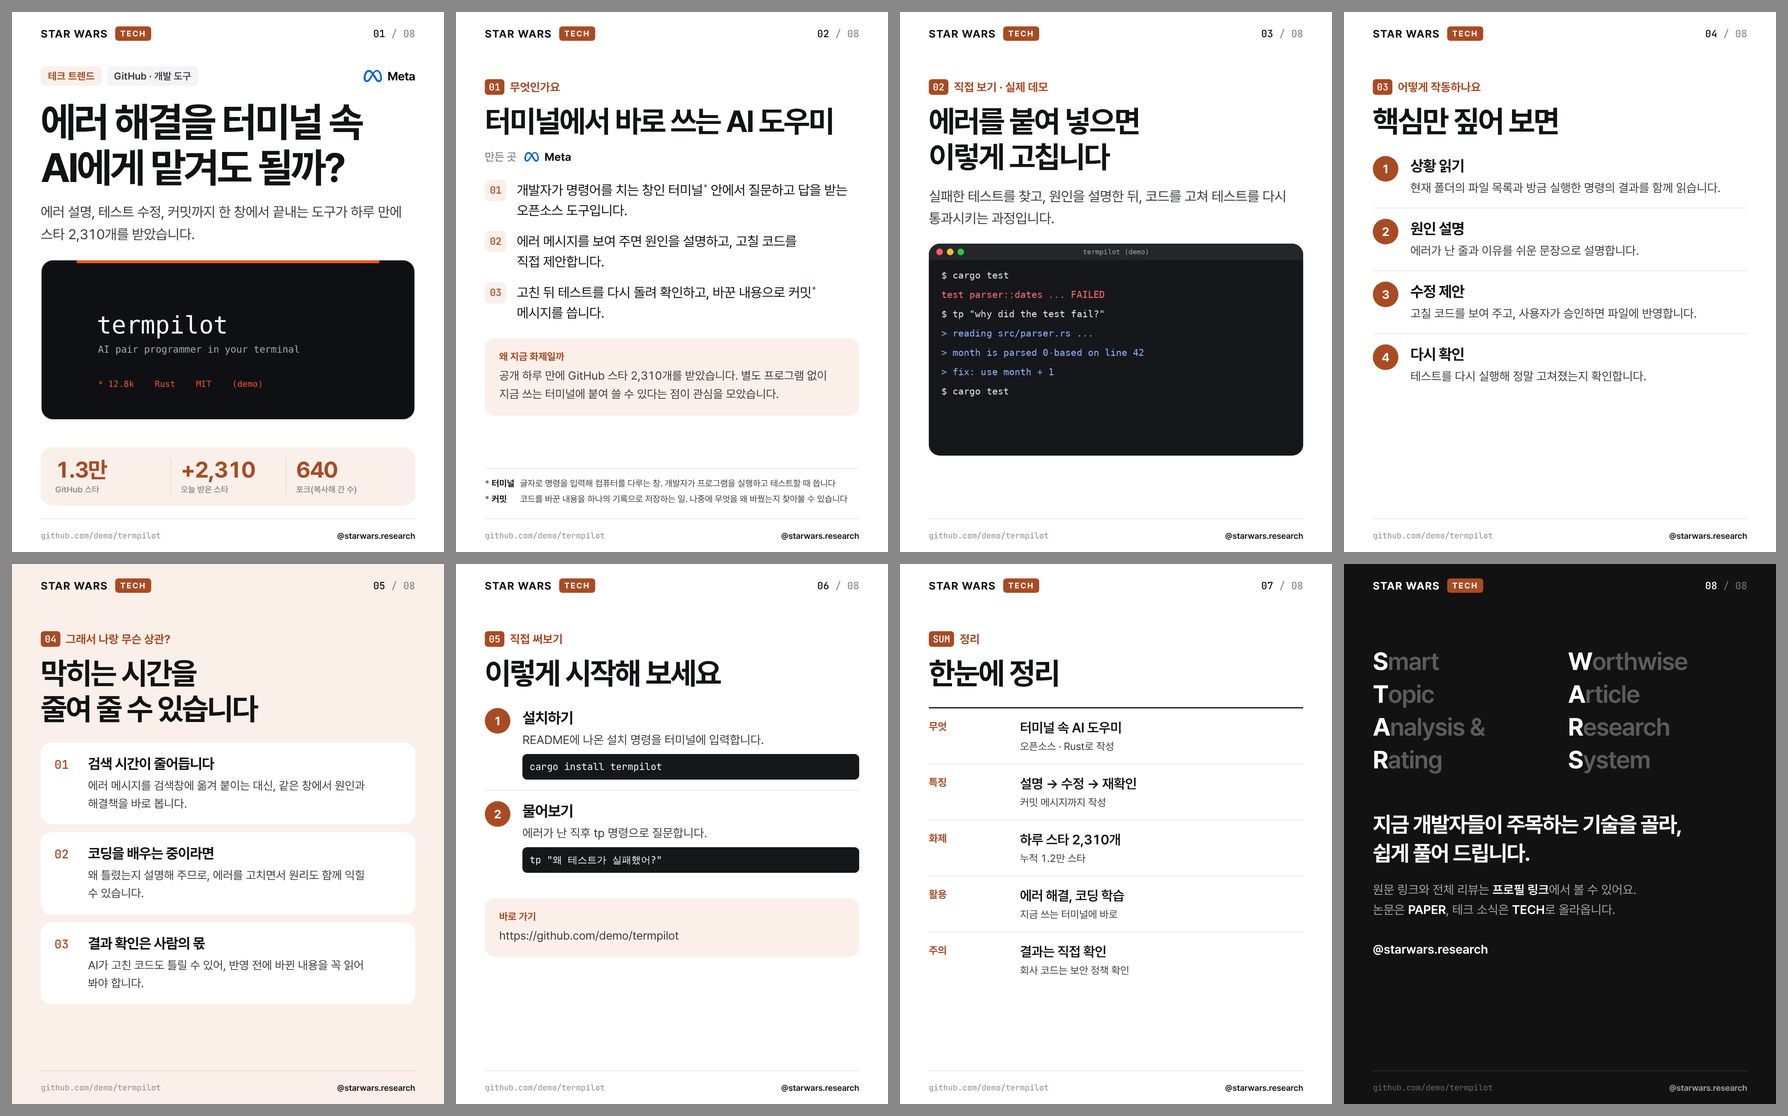
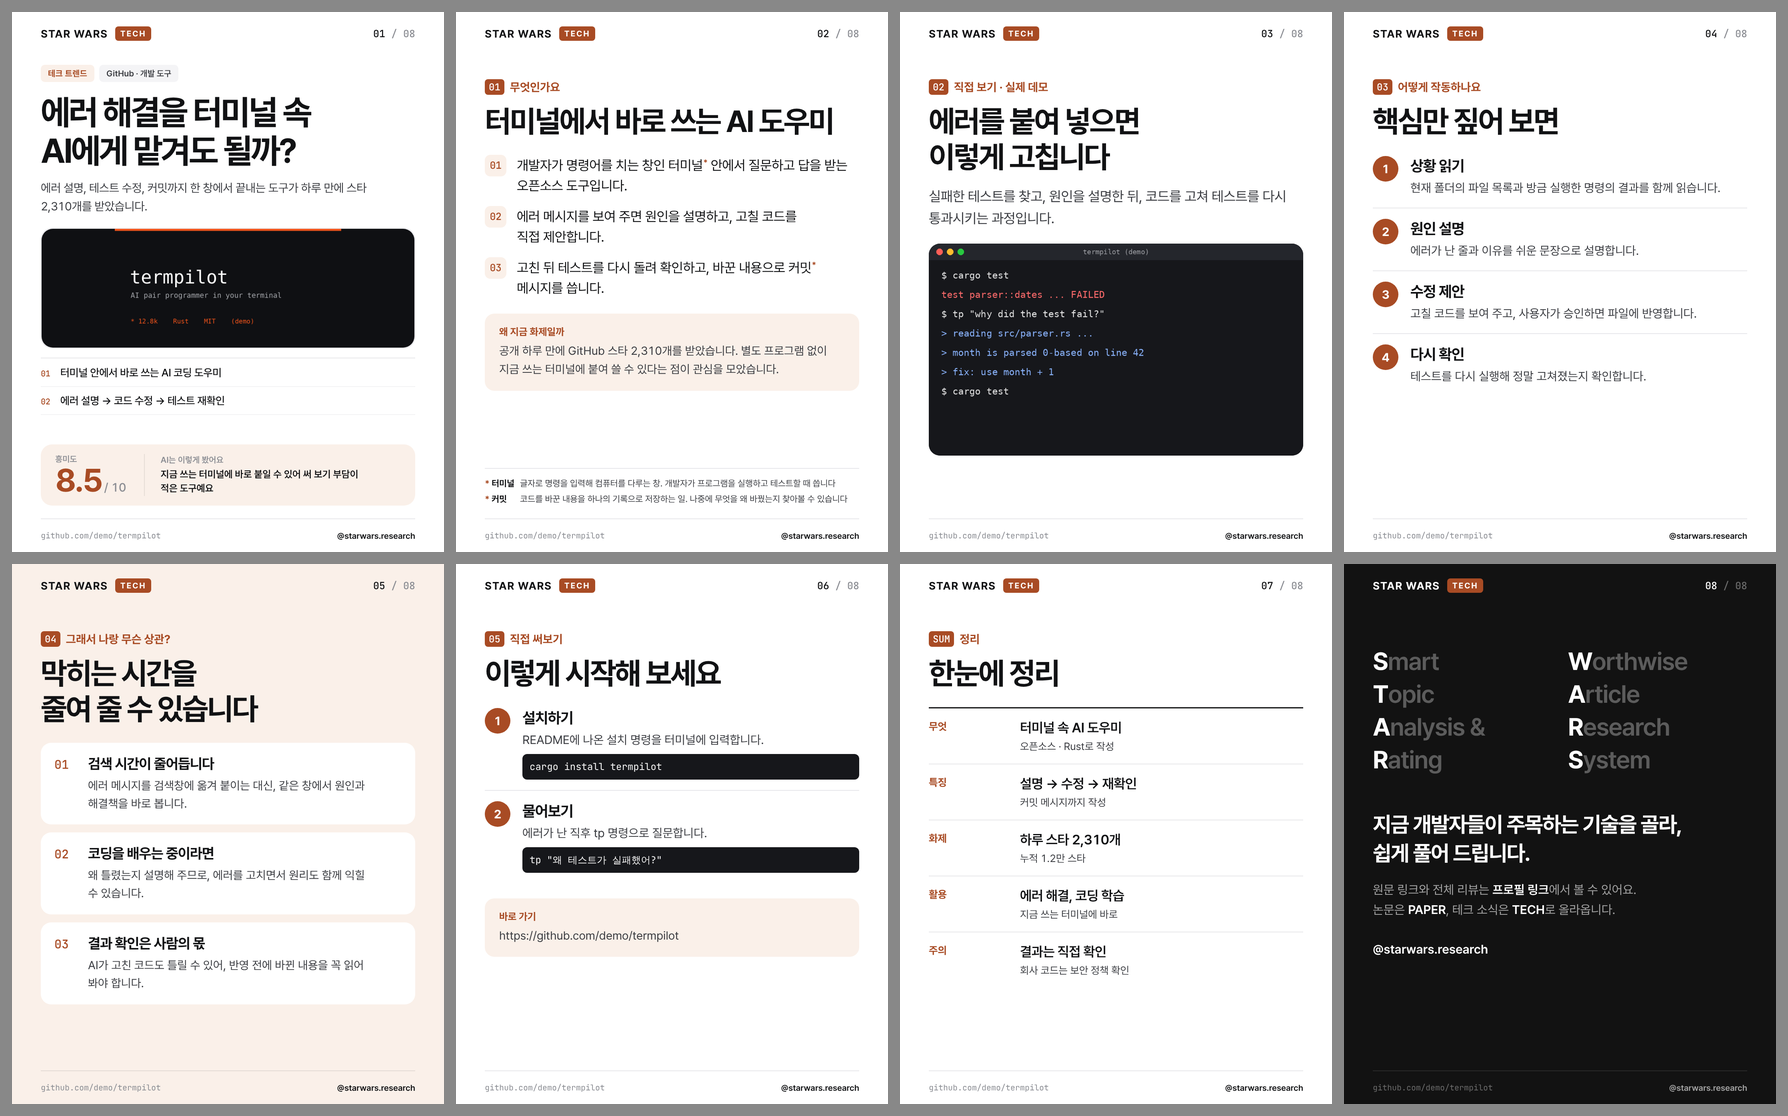
Covers are never empty: picture with key points, or the key number and points; TECH cover shows interest and the AI's take
Claude-Session: https://claude.ai/code/session_012bj7GXVabYbePdzsSxXok8

Changed region(s): [[0.0, 0.0609, 0.2461, 0.457], [0.2768, 0.1219, 0.4614, 0.3656]]

diff --git a/paperagent/templates/cards/cards.html b/paperagent/templates/cards/cards.html
@@ -109,6 +109,22 @@ h2 { flex: none; margin-top: calc(22px * var(--k)); font-size: calc(76px * var(-
 .stat-card .big b span { font-size: 30px; color: var(--mute); letter-spacing: 0; font-weight: 500; margin-left: 6px; }
 .stat-card .parts { flex: 1; display: flex; flex-direction: column; gap: 18px; }
 .stat-card .track { background: #fff; }
+/* the cover's key number (when there is no picture) and its three takeaways */
+.cover-num { flex: none; margin-top: calc(40px * var(--k)); display: flex; align-items: baseline; flex-wrap: wrap; gap: 8px 24px; }
+.cover-num[hidden], .cover-points[hidden], .cover-points li[hidden] { display: none; }
+.cover-num b { font-size: calc(124px * var(--k)); font-weight: 700; line-height: 1; letter-spacing: -0.05em; color: var(--c); }
+.cover-num span { font-size: calc(32px * var(--k)); font-weight: 600; color: var(--body); }
+.cover-points { flex: none; list-style: none; margin-top: calc(34px * var(--k)); border-top: 2px solid var(--line); }
+.cover-points li { display: grid; grid-template-columns: calc(58px * var(--k)) minmax(0, 1fr); align-items: baseline; padding: calc(18px * var(--k)) 0;
+                   border-bottom: 1px solid var(--line); font-size: calc(32px * var(--k)); line-height: 1.45; font-weight: 500; letter-spacing: -0.015em; }
+.cover-points li b { font-family: "Mono", monospace; font-size: calc(24px * var(--k)); font-weight: 500; color: var(--c); }
+.figure + .cover-points { margin-top: calc(28px * var(--k)); }
+/* TECH cover: how interesting it is, and the AI's one-line take */
+.stat-card.take { align-items: stretch; }
+.ai-take { flex: 1; display: flex; flex-direction: column; justify-content: center; }
+.take .big + .ai-take { border-left: 2px solid rgba(0,0,0,.08); padding-left: 40px; }
+.ai-take small { font-size: 21px; color: var(--mute); font-weight: 600; }
+.ai-take p { margin-top: 6px; font-size: calc(29px * var(--k)); line-height: 1.45; font-weight: 600; color: var(--ink); text-wrap: pretty; }
 .tiles-row { flex: 1; display: grid; grid-auto-flow: column; grid-auto-columns: minmax(0, 1fr); }
 .tiles-row > div { padding: 0 24px; border-left: 2px solid rgba(0,0,0,.08); }
 .tiles-row > div:first-child { padding-left: 0; border-left: 0; }
@@ -266,15 +282,21 @@ h2 { flex: none; margin-top: calc(22px * var(--k)); font-size: calc(76px * var(-
       {% if cover.maker %}<span class="maker">{{ cover.maker.mark or '' }}<b>{{ cover.maker.name }}</b></span>{% endif %}</div>
     <h1>{{ cover.headline | t }}</h1>
     {% if cover.sub %}<p class="lead">{{ cover.sub | t }}</p>{% endif %}
+    {# with a picture the picture leads; without one, the key number does (the script shows one or the other) #}
+    {% if cover.number %}<div class="cover-num"><b>{{ cover.number.value }}</b>{% if cover.number.label %}<span>{{ cover.number.label | t }}</span>{% endif %}</div>{% endif %}
     {{ figure(cover.image) }}
+    {% if cover.points %}<ol class="cover-points">{% for x in cover.points[:3] %}<li><b>{{ '%02d' % loop.index }}</b><span>{{ x | t }}</span></li>{% endfor %}</ol>{% endif %}
     <div class="stat">
       {% if cover.stat.type == 'score' %}
       <div class="stat-card">
         <div class="big"><small>종합 평점</small><b>{{ cover.stat.overall }}<span>/ 10</span></b></div>
         <div class="parts">{{ bar('방법론', cover.stat.method) }}{{ bar('참신성', cover.stat.novelty, 'alt') }}</div>
       </div>
-      {% elif cover.stat.tiles %}
-      <div class="stat-card"><div class="tiles-row">{% for t in cover.stat.tiles[:3] %}<div><b>{{ t.value }}</b><span>{{ t.label }}</span></div>{% endfor %}</div></div>
+      {% elif cover.stat.type == 'take' %}
+      <div class="stat-card take">
+        {% if cover.stat.interest is not none %}<div class="big"><small>흥미도</small><b>{{ '%.1f' % cover.stat.interest }}<span>/ 10</span></b></div>{% endif %}
+        {% if cover.stat.take %}<div class="ai-take"><small>AI는 이렇게 봤어요</small><p>{{ cover.stat.take | t }}</p></div>{% endif %}
+      </div>
       {% endif %}
     </div>
     {{ foot(s.notes) }}
@@ -431,21 +453,35 @@ function fit(slide) {
   const bottom = () => Math.max(0, ...[...main.children].map((c) => c.offsetTop + c.offsetHeight));
   const pad = parseFloat(getComputedStyle(main).paddingBottom) || 0;
   const room = () => main.clientHeight - pad - bottom();
-  slide.classList.add("measuring");
-  let k = 1;
-  setK(k);
-  while (room() < -1 && k > 0.62) { k = +(k - 0.02).toFixed(2); setK(k); }
+  const shrink = (k, floor = 0.62) => { while (room() < -1 && k > floor) { k = +(k - 0.02).toFixed(2); setK(k); } return k; };
+  const cover = slide.classList.contains("cover");
   const f = slide.querySelector(".figure");
+  const num = slide.querySelector(".cover-num");
+  const points = [...slide.querySelectorAll(".cover-points li")];
+  slide.classList.add("measuring");
+  if (f && num) num.hidden = true;  // with a picture, the picture leads
+  let k = shrink(1);
+  setK(k);
   if (f) {
-    const kind = slide.classList.contains("media") ? "media" : slide.classList.contains("cover") ? "cover" : "other";
+    const kind = slide.classList.contains("media") ? "media" : cover ? "cover" : "other";
     const need = MIN_FIGURE[kind] || 280;
-    let kk = k;
-    const gap = () => 36 * kk;
-    while (room() - gap() < need && kk > Math.max(0.74, k - 0.16)) { kk = +(kk - 0.02).toFixed(2); setK(kk); }
-    // keep clear space between the figure and what follows it (the score
-    // box or the footnotes), so the two never touch or overlap
-    const avail = room() - gap();
-    if (avail >= need) {
+    const floor = cover ? 0.84 : 0.74;  // the cover's headline stays big
+    // room for the picture at a type scale no smaller than the floor? (gives up cover points from the bottom first)
+    const fits = () => {
+      let kk = k;
+      setK(kk);
+      while (room() - 36 * kk < need && kk > Math.max(floor, k - 0.16)) { kk = +(kk - 0.02).toFixed(2); setK(kk); }
+      return room() - 36 * kk >= need ? kk : null;
+    };
+    let kk = fits();
+    while (kk === null && points.some((li) => !li.hidden)) {
+      [...points].reverse().find((li) => !li.hidden).hidden = true;
+      if (!points.some((li) => !li.hidden)) slide.querySelector(".cover-points").hidden = true;
+      k = shrink(1);
+      kk = fits();
+    }
+    if (kk !== null) {
+      const avail = room() - 36 * kk;
       slide.classList.remove("measuring");
       const img = f.querySelector("img");
       const ar = (img.naturalWidth && img.naturalHeight) ? img.naturalWidth / img.naturalHeight : 1.6;
@@ -453,12 +489,27 @@ function fit(slide) {
       const cap = f.querySelector(".cap");
       const chrome = photo ? 0 : 40 + (cap ? cap.offsetHeight + 12 : 0);
       const natural = (f.clientWidth - (photo ? 0 : 40)) / ar + chrome;
-      const h = Math.min(avail, Math.max(need, natural));
-      f.style.height = Math.floor(h) + "px";
+      f.style.height = Math.floor(Math.min(avail, Math.max(need, natural))) + "px";
     } else {
-      setK(k);
+      // no room for the picture: drop it, bring back every point and the key number
       f.remove();
       slide.removeAttribute("data-video");
+      points.forEach((li) => { li.hidden = false; });
+      const list = slide.querySelector(".cover-points");
+      if (list) list.hidden = false;
+      if (num) num.hidden = false;
+      slide.classList.add("measuring");
+      k = shrink(1);
+    }
+  }
+  // a cover without a picture: the type grows into the space that is left, so it never looks empty
+  if (cover && !slide.querySelector(".figure")) {
+    slide.classList.add("measuring");
+    let g = +slide.style.getPropertyValue("--k") || 1;
+    while (room() > 12 && g < 1.2) {
+      g = +(g + 0.02).toFixed(2);
+      setK(g);
+      if (room() < 0) { g = +(g - 0.02).toFixed(2); setK(g); break; }
     }
   }
   slide.classList.remove("measuring");

diff --git a/tests/test_pdfs_and_cards.py b/tests/test_pdfs_and_cards.py
@@ -161,3 +161,49 @@ def test_figures_never_touch_the_footnotes(sample_pdf, tmp_path):
     # nothing touches the line above the source/account, and the notes keep clear of what is above them
     assert all(r["toLine"] is None or r["toLine"] >= 28 for r in rows), rows
     assert all(r["aboveNotes"] is None or r["aboveNotes"] >= 28 for r in rows), rows
+
+
+def _cover_layout(html, tmp_path):
+    from playwright.sync_api import sync_playwright
+
+    path = tmp_path / "cover.html"
+    path.write_text(html, encoding="utf-8")
+    with sync_playwright() as p:
+        browser = cardnews._launch(p)
+        page = browser.new_page(viewport={"width": 1080, "height": 1350})
+        page.goto(path.as_uri())
+        page.wait_for_selector("body[data-ready='1']")
+        info = page.evaluate("""() => {
+            const s = document.querySelector('.slide.cover'), r = (e) => e.getBoundingClientRect();
+            const shown = (sel) => { const e = s.querySelector(sel); return !!e && r(e).height > 0; };
+            const stat = s.querySelector('.stat-card'), kids = [...s.querySelector('.main').children].filter((c) => r(c).height > 0);
+            const above = kids.filter((c) => !c.classList.contains('stat') && !c.classList.contains('foot')).pop();
+            return {figure: shown('.figure'), number: shown('.cover-num'), points: s.querySelectorAll('.cover-points li:not([hidden])').length,
+                    empty: stat ? r(stat).top - r(above).bottom : null, text: s.innerText};
+        }""")
+        browser.close()
+    return info
+
+
+def test_cover_is_filled_with_or_without_a_picture(sample_pdf, tmp_path):
+    """The first card never looks empty: a picture with key points, or - without one - the key number and the points."""
+    paper = {"uid": "arxiv:1", "title": "T", "url": "https://x"}
+    figs = pdfs.extract_figures(sample_pdf, tmp_path / "figs")
+    with_fig = _cover_layout(cardnews.build_html(paper, copy.deepcopy(demo.SAMPLE_REVIEW), figs), tmp_path)
+    assert with_fig["figure"] and not with_fig["number"] and with_fig["points"] >= 1
+    no_fig = _cover_layout(cardnews.build_html(paper, copy.deepcopy(demo.SAMPLE_REVIEW), []), tmp_path)
+    assert not no_fig["figure"] and no_fig["number"] and no_fig["points"] == 3 and "+12.4%p" in no_fig["text"]
+    assert no_fig["empty"] < 160  # no big hole above the score box
+
+
+def test_tech_cover_shows_interest_and_the_ai_take(tmp_path):
+    item = {**demo.SAMPLE_TECH, "id": 1, "interest": 8.5, "interest_reason": "관심 높음"}
+    html = cardnews.build_tech_html(item, copy.deepcopy(demo.SAMPLE_TECH_REVIEW), {"images": [], "video": None}, tmp_path)
+    cover = _cover_layout(html, tmp_path)
+    assert "흥미도" in cover["text"] and "8.5" in cover["text"] and "AI는 이렇게 봤어요" in cover["text"]
+    assert "써 보기 부담이 적은 도구예요" in cover["text"] and 'class="tiles-row"' not in html  # no more star/comment tiles
+    assert cover["points"] == 3 and cover["empty"] < 160
+    old = copy.deepcopy(demo.SAMPLE_TECH_REVIEW)
+    old.pop("ai_take")  # posts written before the AI take: the screening reason stands in
+    html = cardnews.build_tech_html(item, old, {"images": [], "video": None}, tmp_path)
+    assert "관심 높음" in html

diff --git a/paperagent/cardnews.py b/paperagent/cardnews.py
@@ -199,10 +199,12 @@ def paper_slides(paper, review, figures):
         next((s["figure"] for s in slides if s["kind"] == "media" and s.get("figure")), None))
     cover = {
         "headline": card.get("cover_headline"), "sub": card.get("cover_sub"), "topic": card.get("category"),
-        "image": cover_image, "stat": {"type": "score", "overall": review.get("overall_score"),
+        "image": cover_image, "points": (card.get("cover_points") or [])[:3],
+        "number": {"value": res["highlight"], "label": res.get("highlight_label")} if res.get("highlight") else None, "stat": {"type": "score", "overall": review.get("overall_score"),
                                        "method": review.get("methodology_score"), "novelty": review.get("novelty_score")},
     }
-    _attach_notes(slides, card, {"cover": [card.get(k) for k in ("cover_headline", "cover_sub")]})
+    _attach_notes(slides, card, {"cover": [card.get(k) for k in ("cover_headline", "cover_sub", "cover_points")]
+                                 + [res.get("highlight_label")]})
     return slides, cover
 
 
@@ -487,8 +489,11 @@ def tech_slides(item, review, media, tmp: Path):
 
     cover = {"headline": review.get("cover_headline"), "sub": review.get("cover_sub"),
              "topic": f"{src_name} · {review.get('category')}" if review.get("category") else src_name,
-             "image": photo(images[0]) if images else None, "stat": {"tiles": tiles[:3]} if tiles else {}, "maker": maker}
-    _attach_notes(slides, review, {"cover": [review.get("cover_headline"), review.get("cover_sub")]})
+             "image": photo(images[0]) if images else None, "maker": maker,
+             "points": (review.get("cover_points") or what.get("points") or [])[:3],
+             "stat": {"type": "take", "interest": item.get("interest"), "take": review.get("ai_take") or item.get("interest_reason")}
+             if (item.get("interest") is not None or review.get("ai_take") or item.get("interest_reason")) else {}}
+    _attach_notes(slides, review, {"cover": [review.get(k) for k in ("cover_headline", "cover_sub", "cover_points")]})
     return slides, cover
 
 

diff --git a/paperagent/agent.py b/paperagent/agent.py
@@ -657,6 +657,9 @@ TECH_SCHEMA = _obj({
     "cover_headline": {**_str, "description": "A question a curious non-expert would ask, ending with '?', 2 lines separated by \\n, "
                                              "<= 16 chars per line, no clickbait, e.g. '코드 리뷰를\\nAI한테 맡겨도 될까?'"},
     "cover_sub": _L(70),
+    "cover_points": {**_str_list, "description": "Exactly 3 Korean takeaways for the cover, each <= 40 chars: what it is, what is new, one fact with a number"},
+    "ai_take": {**_str, "description": "The AI's honest one-line view of this item for the cover, friendly spoken Korean ending in '-요', <= 60 chars - "
+                                     "why it is worth a look, or the catch. e.g. '설치 없이 바로 써볼 수 있어 입문자에게도 좋은 도구예요'"},
     "what": _obj({"headline": _H,
                   "points": {**_str_list, "description": "Exactly 3 Korean sentences, each <= 75 chars: what it is, what it does, what is new about it"},
                   "why_now": {**_str, "description": "2 Korean sentences on why people are talking about it now, with the numbers given (<= 160 chars)"}}),

diff --git a/paperagent/demo.py b/paperagent/demo.py
@@ -385,6 +385,8 @@ SAMPLE_TECH_REVIEW = {
     "kind": "project",
     "cover_headline": "에러 해결을 터미널 속\nAI에게 맡겨도 될까?",
     "cover_sub": "에러 설명, 테스트 수정, 커밋까지 한 창에서 끝내는 도구가 하루 만에 스타 2,310개를 받았습니다.",
+    "cover_points": ["터미널 안에서 바로 쓰는 AI 코딩 도우미", "에러 설명 → 코드 수정 → 테스트 재확인", "공개 하루 만에 GitHub 스타 2,310개"],
+    "ai_take": "지금 쓰는 터미널에 바로 붙일 수 있어 써 보기 부담이 적은 도구예요",
     "what": {
         "headline": "터미널에서 바로 쓰는 AI 도우미",
         "points": [
